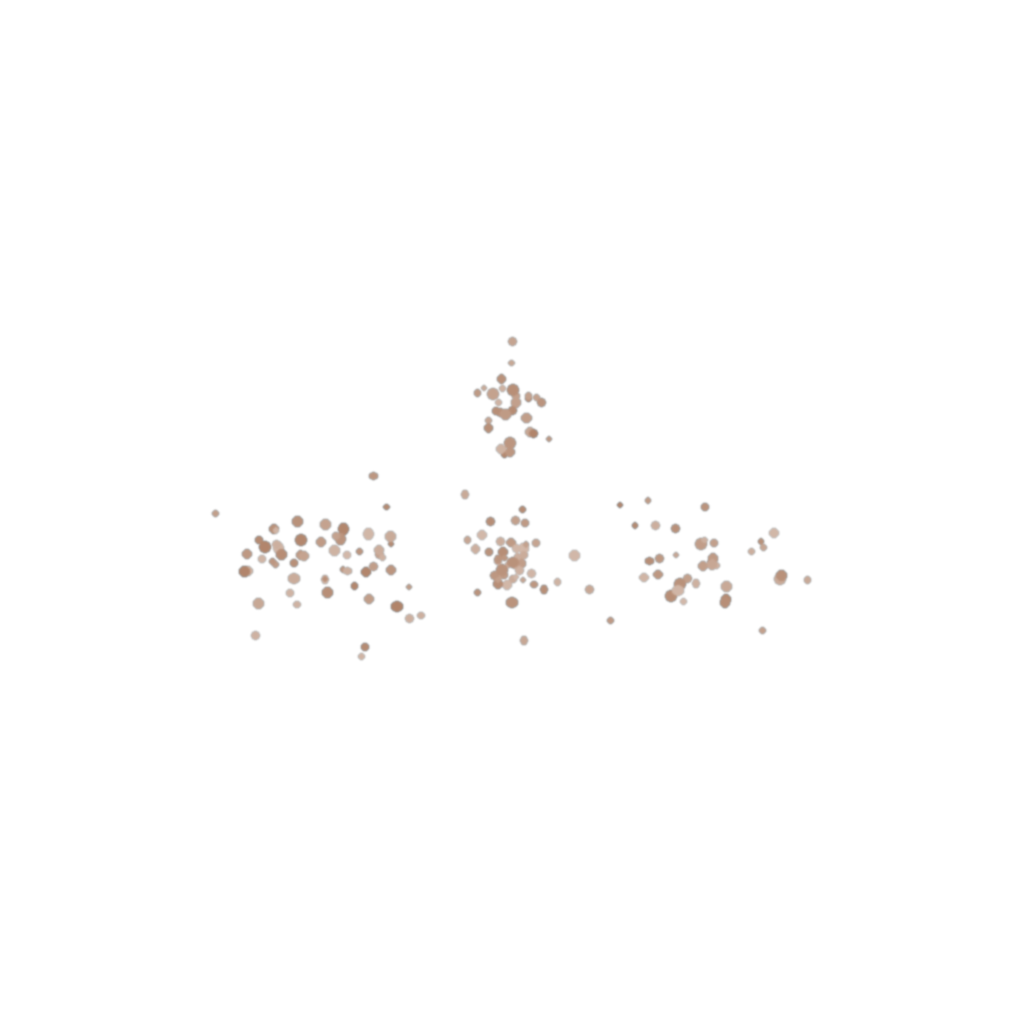
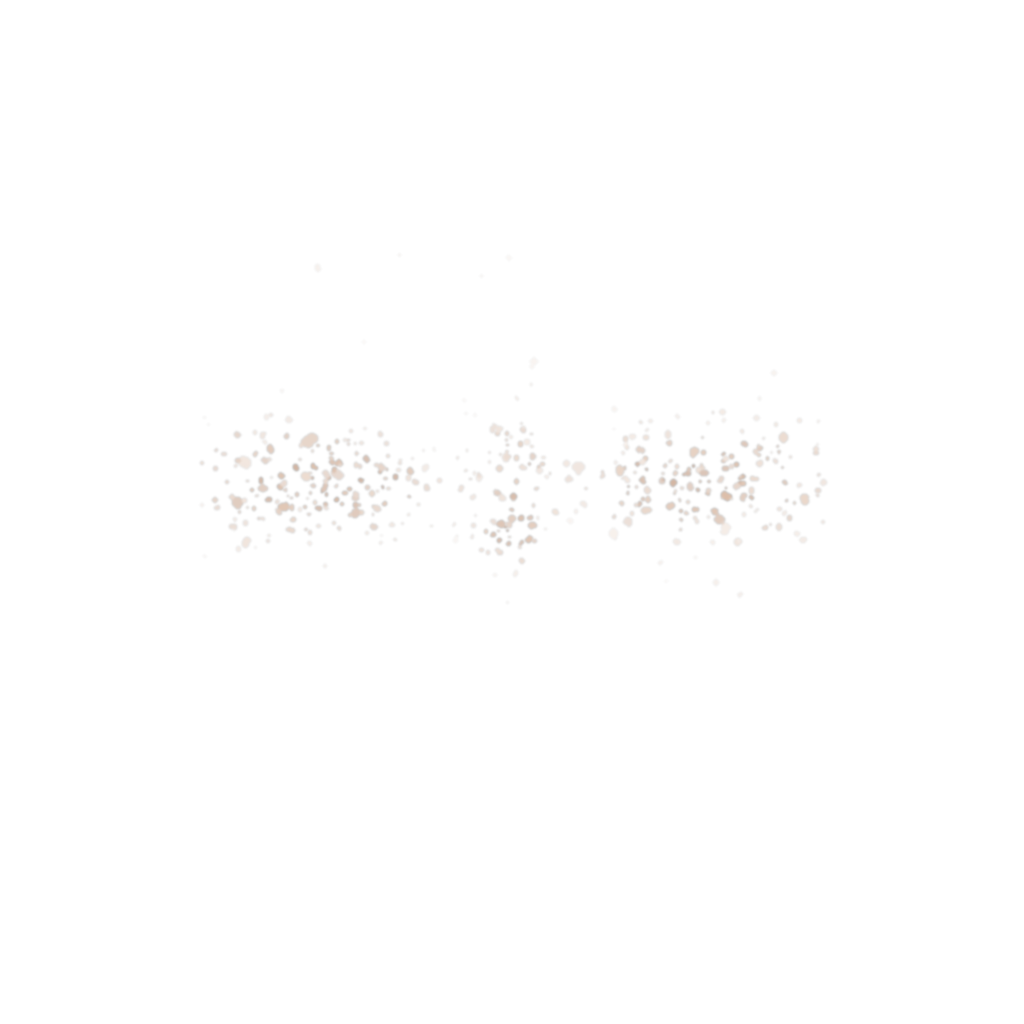
Face paint takes on the skin's light and texture (like the app); natural freckles

diff --git a/web/js/three3d.js b/web/js/three3d.js
@@ -6,6 +6,47 @@ import * as THREE from "three";
 import { GLTFLoader } from "https://cdn.jsdelivr.net/npm/three@0.160.0/examples/jsm/loaders/GLTFLoader.js";
 import { FACE_TRIANGLES, FACE_UV } from "./facemesh.js";
 
+// Face paint shading, as in the app's FaceMeshProgram: the skin under each pixel divided by the
+// face's usual brightness (measured at the cheeks, forehead and nose bridge) lights the paint.
+const SHADING = 0.85;
+const REF_POINTS = [50, 280, 151, 6];
+const PAINT_VERTEX = `
+  uniform vec2 uCrop;
+  varying vec2 vUv;
+  varying vec2 vSkin;
+  void main() {
+    vUv = uv;
+    vSkin = 0.5 + position.xy * uCrop * 0.5;
+    gl_Position = vec4(position.xy, 0.0, 1.0);
+  }`;
+const PAINT_FRAGMENT = `
+  uniform sampler2D uTex;
+  uniform sampler2D uSkin;
+  uniform vec2 uCrop;
+  uniform vec2 uRef[4];
+  uniform float uShade;
+  uniform float uOpacity;
+  varying vec2 vUv;
+  varying vec2 vSkin;
+  float lum(vec2 p) { return dot(texture2D(uSkin, p).rgb, vec3(0.299, 0.587, 0.114)); }
+  void main() {
+    vec4 c = texture2D(uTex, vUv);
+    vec3 rgb = c.rgb;
+    if (uShade > 0.0) {
+      float usual = 0.0;
+      for (int i = 0; i < 4; i++) {
+        vec2 p = 0.5 + uRef[i] * uCrop * 0.5;
+        usual += lum(p) + lum(p + vec2(0.006, 0.0)) + lum(p - vec2(0.006, 0.0))
+          + lum(p + vec2(0.0, 0.006)) + lum(p - vec2(0.0, 0.006));
+      }
+      usual /= 20.0;
+      float light = clamp(lum(vSkin) / max(usual, 0.05), 0.3, 1.6);
+      rgb *= mix(1.0, light, uShade);
+    }
+    float a = c.a * uOpacity;
+    gl_FragColor = vec4(rgb * a, a);
+  }`;
+
 // The head, roughly (same as the app): hides whatever of a model is behind it.
 const HEAD = { y: 2.5, z: -6.5, rx: 7.8, ry: 12.5, rz: 9.5, roundness: 0.6 };
 
@@ -50,7 +91,6 @@ export class FaceModels {
       this.builtinPaint ??= new Map();
       if (!this.builtinPaint.has(key)) {
         const tex = new THREE.TextureLoader().load(`facepaint/${key.replace(/^builtin:/, "")}`);
-        tex.colorSpace = THREE.SRGBColorSpace;
         tex.flipY = false; // the mesh's uv has v pointing down, like the picture
         this.builtinPaint.set(key, tex);
       }
@@ -58,7 +98,6 @@ export class FaceModels {
     }
     if (!this.paintTextures.has(key)) {
       const tex = new THREE.Texture();
-      tex.colorSpace = THREE.SRGBColorSpace;
       tex.flipY = false; // the mesh's uv has v pointing down, like the picture
       createImageBitmap(key).then((bmp) => { tex.image = bmp; tex.needsUpdate = true; });
       this.paintTextures.set(key, tex);
@@ -66,12 +105,24 @@ export class FaceModels {
     return this.paintTextures.get(key);
   }
 
-  /** Builds the paint meshes for [paintFaces] (each: Float32Array of 468 x/y clip positions). */
-  preparePaint(paintFaces, paint, assets) {
+  /**
+   * Builds the paint meshes for [paintFaces] (each: Float32Array of 468 x/y clip positions).
+   * [source] is the camera picture and [sx]/[sy] the part of it the view shows, for shading.
+   */
+  preparePaint(paintFaces, paint, assets, source, sx, sy) {
     this.paintMeshes.forEach((m) => m.visible = false);
     if (!paint || !paintFaces.length) return false;
     const tex = this.paintTexture(paint, assets);
     const blend = paint.blend ?? "Normal";
+    if (source) {
+      if (!this.skin || this.skin.image !== source) {
+        this.skin?.dispose();
+        this.skin = new THREE.Texture(source);
+        this.skin.minFilter = this.skin.magFilter = THREE.LinearFilter;
+        this.skin.generateMipmaps = false;
+      }
+      this.skin.needsUpdate = true;
+    }
     paintFaces.forEach((pos, i) => {
       let mesh = this.paintMeshes[i];
       if (!mesh) {
@@ -79,7 +130,16 @@ export class FaceModels {
         g.setAttribute("position", new THREE.BufferAttribute(new Float32Array(468 * 3), 3));
         g.setAttribute("uv", new THREE.BufferAttribute(Float32Array.from(FACE_UV), 2));
         g.setIndex(FACE_TRIANGLES);
-        mesh = new THREE.Mesh(g, new THREE.MeshBasicMaterial({ transparent: true, depthTest: false, depthWrite: false, premultipliedAlpha: true }));
+        mesh = new THREE.Mesh(g, new THREE.ShaderMaterial({
+          uniforms: {
+            uTex: { value: null }, uSkin: { value: null }, uCrop: { value: new THREE.Vector2(1, 1) },
+            uRef: { value: [0, 1, 2, 3].map(() => new THREE.Vector2()) }, uShade: { value: 0 }, uOpacity: { value: 1 },
+          },
+          vertexShader: PAINT_VERTEX,
+          fragmentShader: PAINT_FRAGMENT,
+          transparent: true, depthTest: false, depthWrite: false,
+          blending: THREE.CustomBlending, blendSrc: THREE.OneFactor, blendDst: THREE.OneMinusSrcAlphaFactor,
+        }));
         mesh.frustumCulled = false;
         this.paintScene.add(mesh);
         this.paintMeshes.push(mesh);
@@ -87,9 +147,15 @@ export class FaceModels {
       const attr = mesh.geometry.attributes.position;
       for (let k = 0; k < 468; k++) attr.setXYZ(k, pos[k * 2], pos[k * 2 + 1], 0);
       attr.needsUpdate = true;
-      const m = mesh.material;
-      m.map = tex;
-      m.opacity = paint.opacity ?? 1;
+      const u = mesh.material.uniforms;
+      u.uTex.value = tex;
+      u.uOpacity.value = paint.opacity ?? 1;
+      // Same as the app: Normal and Screen paint take on the skin's light and texture (Multiply
+      // already keeps it). uRef: where the face's usual brightness is measured.
+      u.uShade.value = source && blend !== "Multiply" ? SHADING : 0;
+      u.uSkin.value = this.skin ?? null;
+      u.uCrop.value.set(sx ?? 1, sy ?? 1);
+      REF_POINTS.forEach((p, k) => u.uRef.value[k].set(pos[p * 2], pos[p * 2 + 1]));
       mesh.visible = true;
     });
     // Multiply / Screen happen when the paint canvas is composited (see the constructor).
@@ -132,11 +198,11 @@ export class FaceModels {
    * Draws [filter]'s models on [faces] (each with a .pose matrix). [sx]/[sy] are the fractions of
    * the source the view shows (a centred crop); [aspect] = source width / height.
    */
-  render(faces, filter, assets, W, H, sx, sy, aspect, paintFaces = []) {
+  render(faces, filter, assets, W, H, sx, sy, aspect, paintFaces = [], source = null) {
     const models = filter.models ?? [];
     if (this.canvas.width !== W || this.canvas.height !== H) this.renderer.setSize(W, H, false);
     const posed = faces.filter((f) => f.pose);
-    const painted = this.preparePaint(paintFaces, filter.facePaint, assets);
+    const painted = this.preparePaint(paintFaces, filter.facePaint, assets, source, sx, sy);
     if (this.paintCanvas.width !== W || this.paintCanvas.height !== H) Object.assign(this.paintCanvas, { width: W, height: H });
     this.paintCtx.clearRect(0, 0, W, H);
     if (painted) {

diff --git a/web/js/main.js b/web/js/main.js
@@ -308,7 +308,7 @@ function frame() {
       }
       return out;
     }) : [];
-    faceModels.render(faces, f, state.assets, W, H, sx, sy, sw / sh, paintFaces);
+    faceModels.render(faces, f, state.assets, W, H, sx, sy, sw / sh, paintFaces, source);
   }
   // Hands and body (lens.hands / lens.pose), in the same units as toUnits() gives faces.
   const wantHands = !!f.script && M.usesHands(state.script), wantPose = !!f.script && M.usesPose(state.script);
